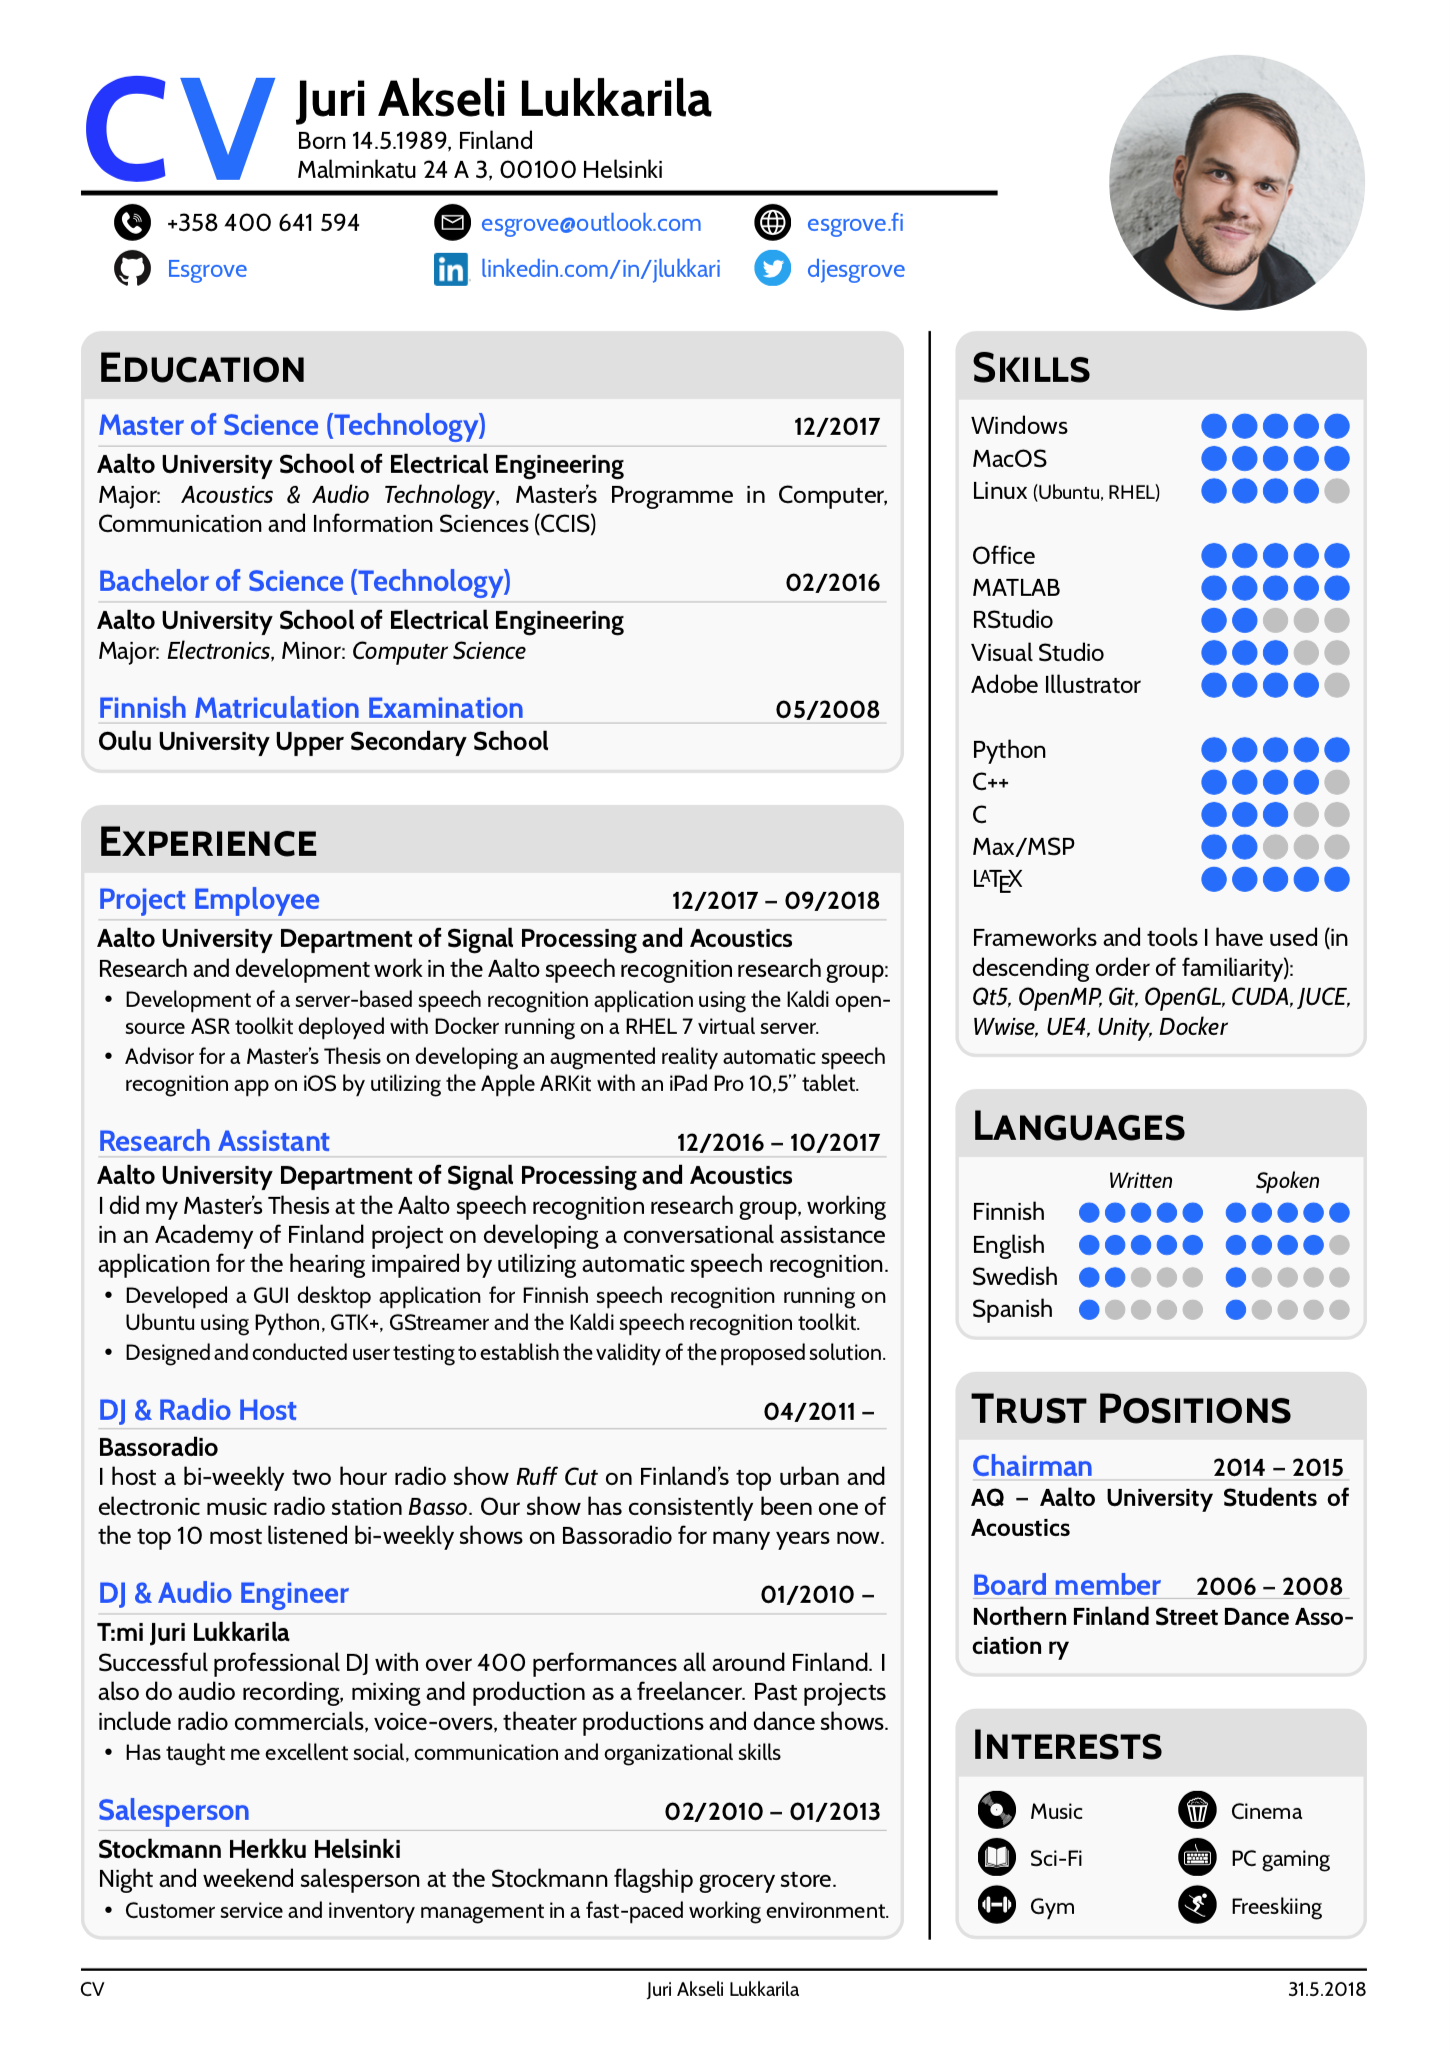
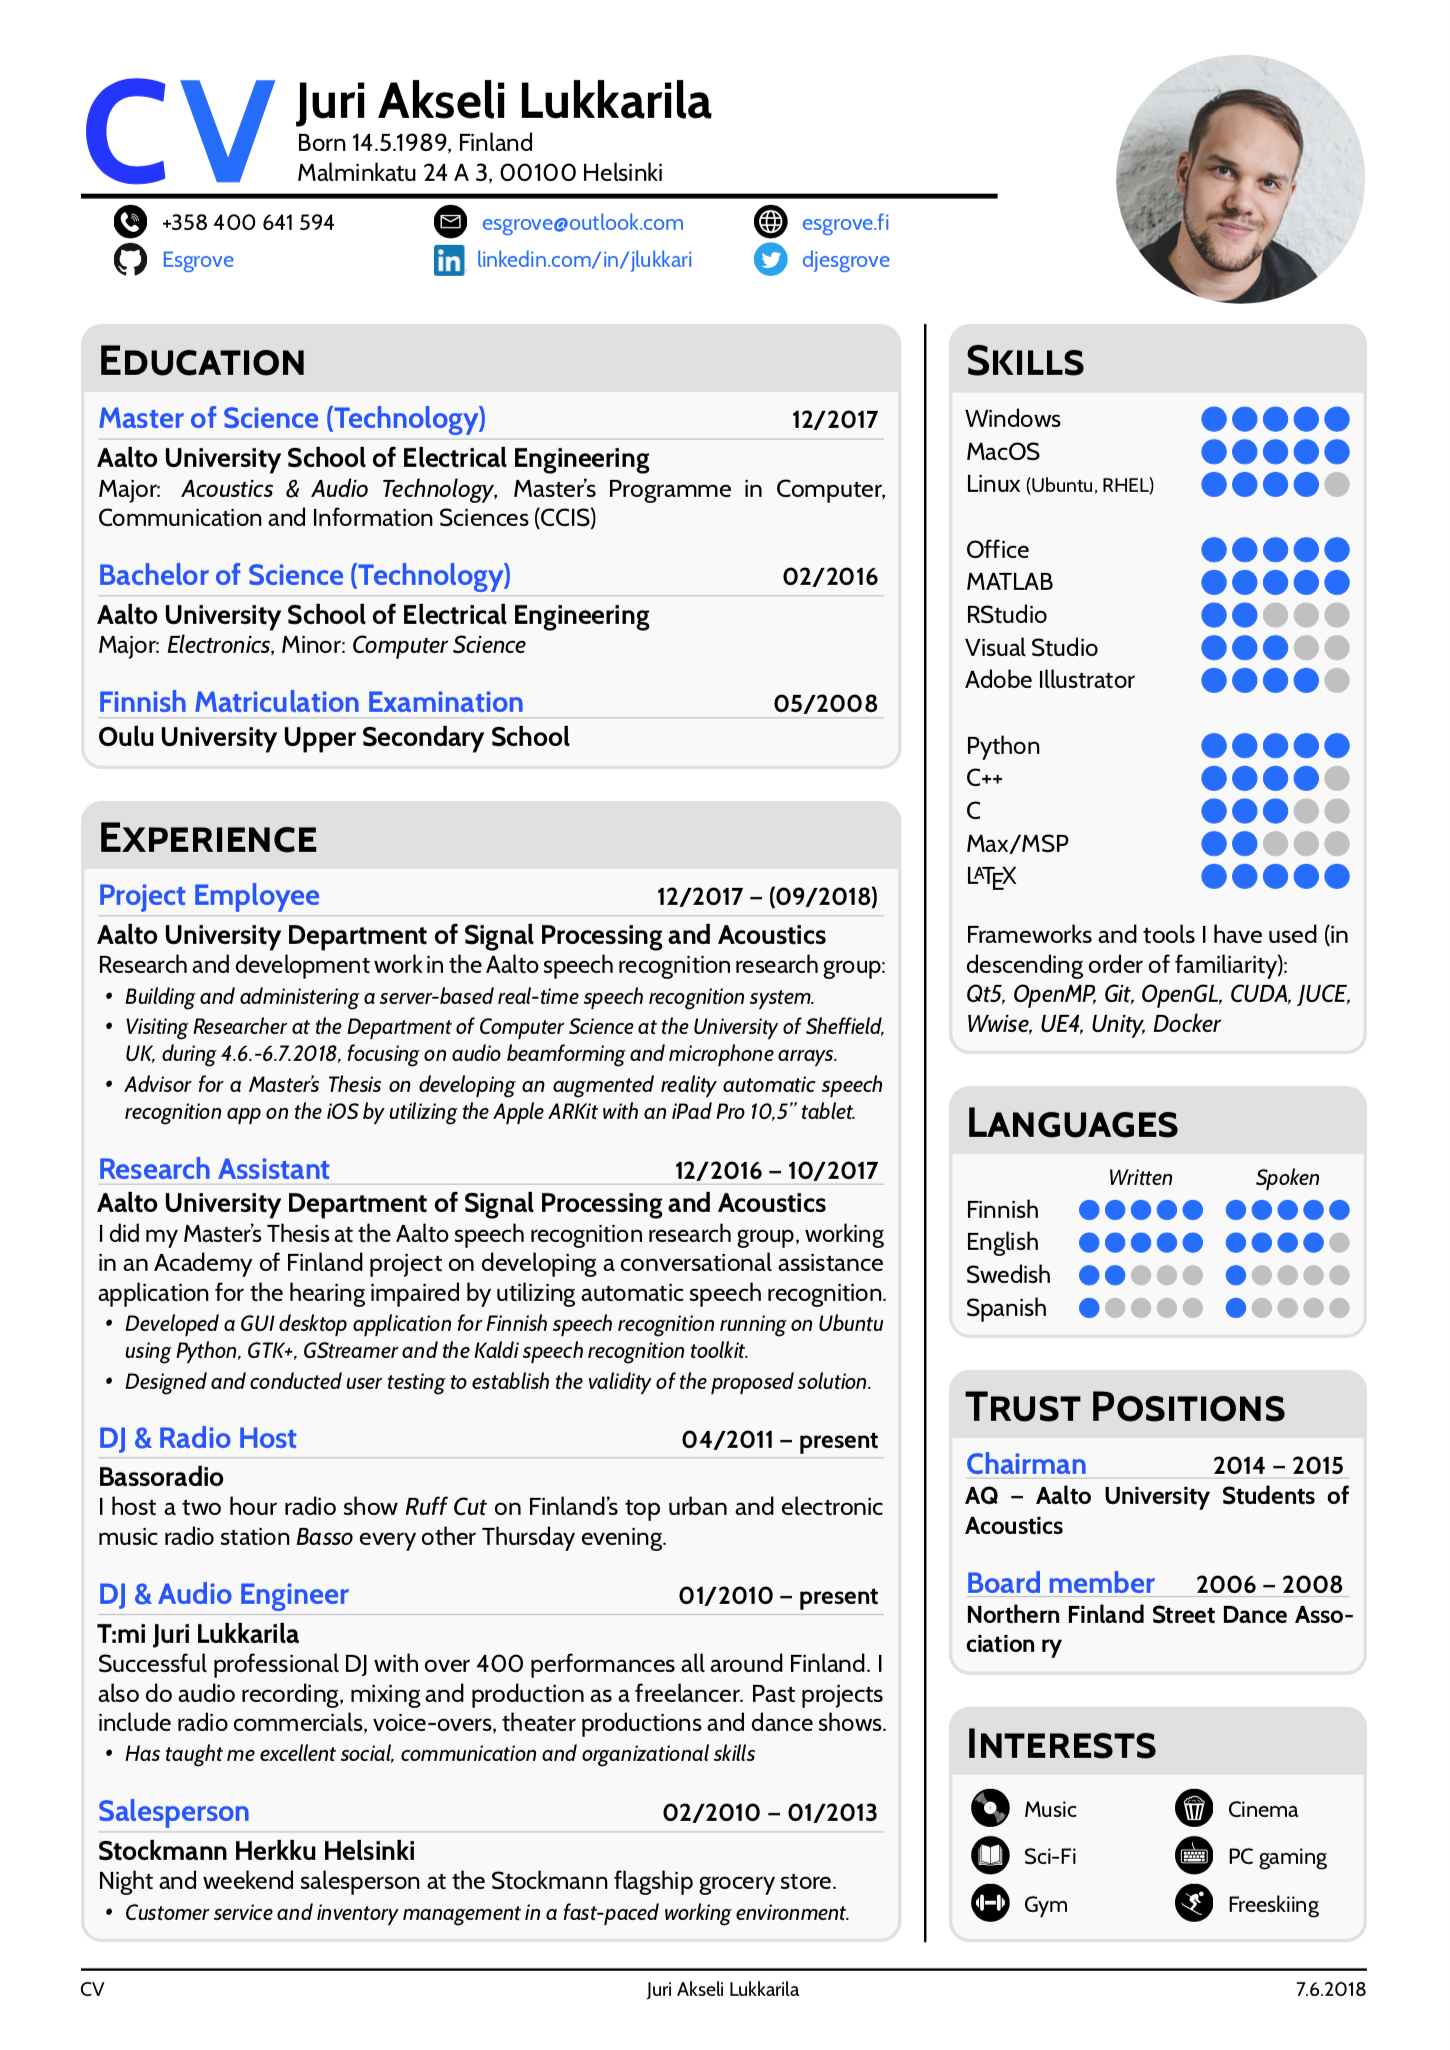
update

Changed region(s): [[0.0621, 0.0312, 0.931, 0.999], [0.7448, 0.0312, 0.9, 0.1561], [0.869, 0.562, 0.9, 0.6244]]

diff --git a/CV Juri Lukkarila.tex b/CV Juri Lukkarila.tex
@@ -9,6 +9,8 @@
 \usepackage{xcolor}							% more colors
 \usepackage{units}								% nice fractions in text
 \usepackage[full]{textcomp}						% text symbol support
+\usepackage{pdfpages}							% insert pages from other pdf documents
+%\usepackage[onehalfspacing]{setspace}			% easy row spacing
 \usepackage[dmyyyy]{datetime}					% date formatting
 \usepackage{multirow}							% table multirow columns 
 \usepackage{multicol}							% multicolumn pages
@@ -92,10 +94,10 @@
 \newcommand{\myrule}{\vspace{0.5mm} {\color{lightgray}{\hrule height 0.5pt width \textwidth depth 0pt}} \vspace{1mm}} 
 
 % title formatting
-\newcommand{\titledate}[2]{{\bfseries \color{textcolor} \large #1} \hfill \textbf{#2} \myrule}
+\newcommand{\titledate}[2]{{\bfseries \color{textcolor}  \fontsize{12}{12}\selectfont #1} \hfill \textbf{#2} \myrule}
 
 % workplace formatting
-\newcommand{\workplace}[1]{{\bfseries \fontsize{10.5}{10.5}\selectfont #1}}
+\newcommand{\workplace}[1]{{\bfseries \fontsize{11}{11}\selectfont #1}}
 
 % section title formatting
 \newcommand{\sectitle}[1]{{\sc \bfseries \LARGE #1}}
@@ -154,7 +156,7 @@
 		\vspace{0.5mm}
 		\rule{0.99\textwidth}{2pt} %\hspace{1mm}
 		%\footnotesize 
-		%\small
+		\small
 		%\normalsize
 		\setlength{\columnsep}{0.5cm}
 		\setlength{\multicolsep}{0cm}
@@ -174,13 +176,13 @@
 	\begin{minipage}{0.28\textwidth}
 		\raggedleft
 		\vspace{-6mm}
-		\roundpic[xshift=-2.1cm,yshift=-0.2cm]{3.7cm}{4.6cm}{Photo Crop.png}
+		\roundpic[xshift=-2.1cm,yshift=-0.2cm]{3.6cm}{4.6cm}{Jook Joint.png}
 	\end{minipage}
 		
-	\vspace{0.5mm} % space after head section
+	\vspace{0.7mm} % space after head section
 	
 %\fbox{
-\begin{minipage}[t]{0.64\textwidth}
+\begin{minipage}[t]{0.638\textwidth}
 	
 	%%%%%%%% EDUCATION %%%%%%%%
 	
@@ -201,40 +203,41 @@
 	%%%%%%%% EXPERIENCE %%%%%%%%
 	\begin{tcolorbox}[top=1mm,bottom=1mm,right=1mm,left=1mm,arc=\boxarc,toptitle=\boxtop,bottomtitle=1mm,title=\sectitle{Experience},box align=bottom]
 		
-	{\bfseries \color{textcolor} \large Project Employee } \hfill \textbf{12/2017 --- 09/2018} \myrule
+	\titledate{Project Employee}{12/2017 --- (09/2018)}
 	\workplace{Aalto University Department of Signal Processing and Acoustics} \\
 	Research and development work in the Aalto speech recognition research group:
-	\begin{itemize}[leftmargin=0.4cm, itemsep=0.5mm,parsep=0pt,topsep=0.5mm,label={\large\textbullet}]
+	\begin{itemize}[leftmargin=0.4cm, itemsep=0.5mm,parsep=0pt,topsep=0.5mm,label={\large\textbullet},before=\itshape]
 		\small
-		\item Development of a server-based speech recognition application using the Kaldi open-source ASR toolkit deployed with Docker running on a RHEL 7 virtual server.
-		\item Advisor for a Master's Thesis on developing an augmented reality automatic speech recognition app on iOS by utilizing the Apple ARKit with an iPad Pro 10,5" tablet. \\
+		\item Building and administering a server-based real-time speech recognition system.
+		\item Visiting Researcher at the Department of Computer Science at the University of Sheffield, UK, during 4.6.-6.7.2018, focusing on audio beamforming and microphone arrays.
+		\item Advisor for a Master's Thesis on developing an augmented reality automatic speech recognition app on the iOS by utilizing the Apple ARKit with an iPad Pro 10,5" tablet. \\
 	\end{itemize}
 	
-	{\bfseries \color{textcolor} \large Research Assistant} \hfill \textbf{12/2016 --- 10/2017} \myrule
+	\titledate{Research Assistant}{12/2016 --- 10/2017}
 	\workplace{Aalto University Department of Signal Processing and Acoustics} \\
 	I did my Master’s Thesis at the Aalto speech recognition research group, working in an Academy of Finland project on developing a conversational assistance application for the hearing impaired by utilizing automatic speech recognition.
-	\begin{itemize}[leftmargin=0.4cm, itemsep=0.5mm,parsep=0pt,topsep=0.5mm,label={\large\textbullet}]
+	\begin{itemize}[leftmargin=0.4cm, itemsep=0.5mm,parsep=0pt,topsep=0.5mm,label={\large\textbullet},before=\itshape]
 		\small
 		\item Developed a GUI desktop application for Finnish speech recognition running on Ubuntu using Python, GTK+, GStreamer and the Kaldi speech recognition toolkit.
 		\item Designed and conducted user testing to establish the validity of the proposed solution. \\
 	\end{itemize}
 	
-	{\bfseries \color{textcolor} \large DJ \& Radio Host } \hfill \textbf{04/2011 --- } \myrule
+	\titledate{DJ \& Radio Host}{04/2011 --- present}
 	\workplace{Bassoradio} \\
-	I host a bi-weekly two hour radio show \textit{Ruff Cut} on Finland’s top urban and electronic music radio station \textit{Basso}. Our show has consistently been one of the top 10 most listened bi-weekly shows on Bassoradio for many years now. \\
+	I host a two hour radio show \textit{Ruff Cut} on Finland’s top urban and electronic music radio station \textit{Basso} every other Thursday evening. \\
 	
-	{\bfseries \color{textcolor} \large DJ \& Audio Engineer } \hfill \textbf{01/2010 --- } \myrule
+	\titledate{DJ \& Audio Engineer}{01/2010 --- present}
 	\workplace{T:mi Juri Lukkarila} \\
 	Successful professional DJ with over 400 performances all around Finland. I also do audio recording, mixing and production as a freelancer. Past projects include radio commercials, voice-overs, theater productions and dance shows.
-	\begin{itemize}[leftmargin=0.4cm, itemsep=0.5mm,parsep=0pt,topsep=0.5mm,label={\large\textbullet}]
+	\begin{itemize}[leftmargin=0.4cm, itemsep=0.5mm,parsep=0pt,topsep=0.5mm,label={\large\textbullet},before=\itshape]
 		\small
 		\item Has taught me excellent social, communication and organizational skills \\
 	\end{itemize}
 	
-	{\bfseries \color{textcolor} \large Salesperson } \hfill \textbf{02/2010 --- 01/2013} \myrule
+	\titledate{Salesperson }{02/2010 --- 01/2013}
 	\workplace{Stockmann Herkku Helsinki} \\
 	Night and weekend salesperson at the Stockmann flagship grocery store.
-	\begin{itemize}[leftmargin=0.4cm, itemsep=0.5mm,parsep=0pt,topsep=0.5mm,label={\large\textbullet}]
+	\begin{itemize}[leftmargin=0.4cm, itemsep=0.5mm,parsep=0pt,topsep=0.5mm,label={\large\textbullet},before=\itshape]
 		\small
 		\item Customer service and inventory management in a fast-paced working environment.
 	\end{itemize}
@@ -243,13 +246,13 @@
 \end{minipage}%} 
 \hfill\vline\hfill
 %\fbox{
-\begin{minipage}[t]{0.32\textwidth}
+\begin{minipage}[t]{0.325\textwidth}
 	
 \renewcommand{\sp}{\hspace{0mm}}
 	
 %%%%%%%% SKILLS %%%%%%%%
 \begin{tcolorbox}[top=1mm,bottom=1mm,right=1mm,left=1mm,arc=\boxarc,toptitle=\boxtop,bottomtitle=1mm,title=\sectitle{Skills},box align=top]
-{\linespread{1.11}\selectfont
+{\linespread{1.12}\selectfont
 Windows 			\hfill \mycircle{symbolcolor} \mycircle{symbolcolor} \mycircle{symbolcolor} \mycircle{symbolcolor} \mycircle{symbolcolor} \\
 MacOS   			\hfill \mycircle{symbolcolor} \mycircle{symbolcolor} \mycircle{symbolcolor} \mycircle{symbolcolor} \mycircle{symbolcolor} \\
 Linux {\footnotesize(Ubuntu, RHEL)}\hfill \mycircle{symbolcolor} \mycircle{symbolcolor} \mycircle{symbolcolor} \mycircle{symbolcolor} \mycircle{lightgray} \\
@@ -273,7 +276,7 @@ Frameworks and tools I have used (in descending order of familiarity): \\
 
 %%%%%%%% LANGUAGES %%%%%%%%
 \begin{tcolorbox}[top=1mm,bottom=1mm,right=1mm,left=1mm,arc=\boxarc,toptitle=\boxtop,bottomtitle=1mm,title=\sectitle{Languages},box align=top]
-{\linespread{1.11}\selectfont
+{\linespread{1.12}\selectfont
 \hfill {\small \textit{Written} \hspace{10.5mm} \textit{Spoken}} \hspace{2.6mm}  \hfill \\
 Finnish \hfill \smallercircle{symbolcolor} \smallercircle{symbolcolor} \smallercircle{symbolcolor} \smallercircle{symbolcolor} \smallercircle{symbolcolor} \mysep \smallercircle{symbolcolor} \smallercircle{symbolcolor} \smallercircle{symbolcolor} \smallercircle{symbolcolor} \smallercircle{symbolcolor} \\
 English \hfill \smallercircle{symbolcolor} \smallercircle{symbolcolor} \smallercircle{symbolcolor} \smallercircle{symbolcolor} \smallercircle{symbolcolor} \mysep  \smallercircle{symbolcolor} \smallercircle{symbolcolor} \smallercircle{symbolcolor} \smallercircle{symbolcolor} \smallercircle{lightgray} \\
@@ -283,17 +286,16 @@ Spanish \hfill \smallercircle{symbolcolor} \smallercircle{lightgray} \smallercir
 
 %%%%%%%% INTERESTS %%%%%%%%
 \begin{tcolorbox}[top=1mm,bottom=1mm,right=1mm,left=1mm,arc=\boxarc,toptitle=\boxtop,bottomtitle=1mm,title=\sectitle{Trust Positions},box align=top]
-	%\small
-	{\bfseries \color{textcolor} \large Chairman} \hfill \textbf{2014 --- 2015} \myrule
+	\titledate{Chairman}{2014 --- 2015}
 	\textbf{AQ --- Aalto University Students of Acoustics} \\
 	
-	{\bfseries \color{textcolor} \large Board member} \hfill \textbf{2006  --- 2008} \myrule
+	\titledate{Board member}{2006  --- 2008}
 	\textbf{Northern Finland Street Dance Association ry}
 \end{tcolorbox} \vspace{\baselineskip}
 
 %%%%%%%% INTERESTS %%%%%%%%
-\renewcommand{\baselinestretch}{1.15} % makes logos a bit bigger since the font is smaller here
-\begin{tcolorbox}[top=1mm,bottom=2.3mm,right=1mm,left=1mm,arc=\boxarc,toptitle=\boxtop,bottomtitle=1mm,title=\sectitle{Interests},box align=bottom]
+\renewcommand{\baselinestretch}{1.15} % make logos a bit bigger since the font is smaller here
+\begin{tcolorbox}[top=1mm,bottom=3mm,right=1mm,left=1mm,arc=\boxarc,toptitle=\boxtop,bottomtitle=1mm,title=\sectitle{Interests},box align=bottom]
 \small
 \begin{multicols}{2}
 \begin{itemize}[label={},leftmargin=0cm,labelwidth=0cm, labelsep=0cm, itemsep=0.25mm]
